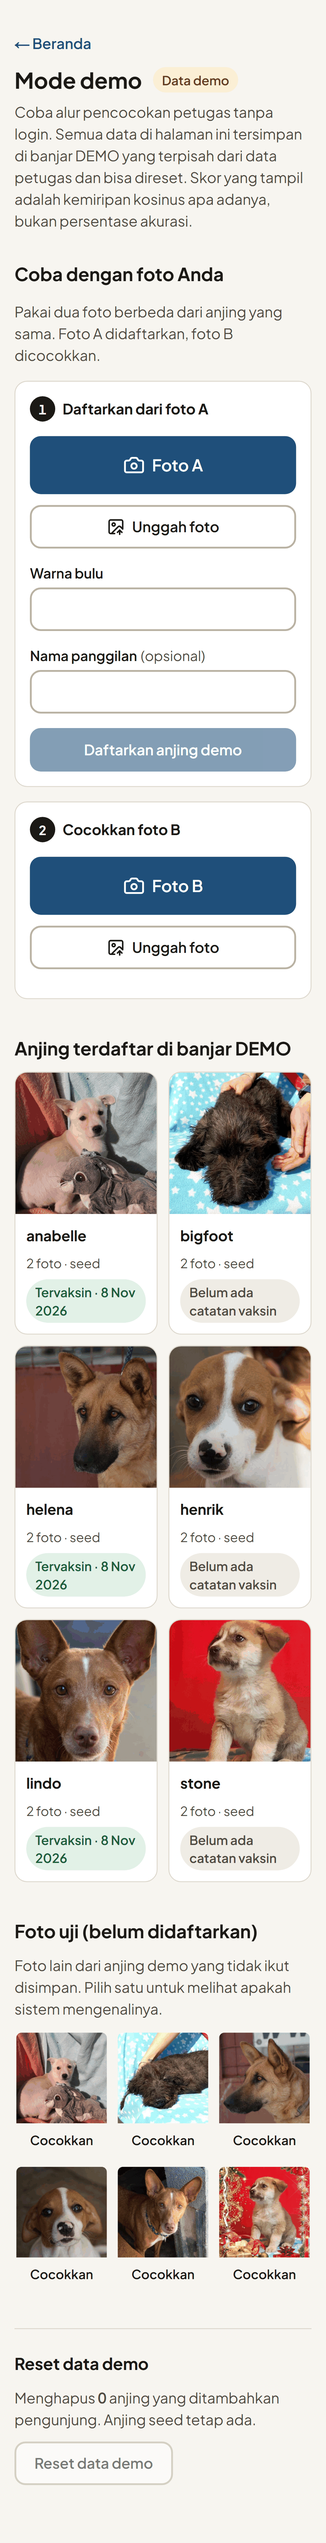
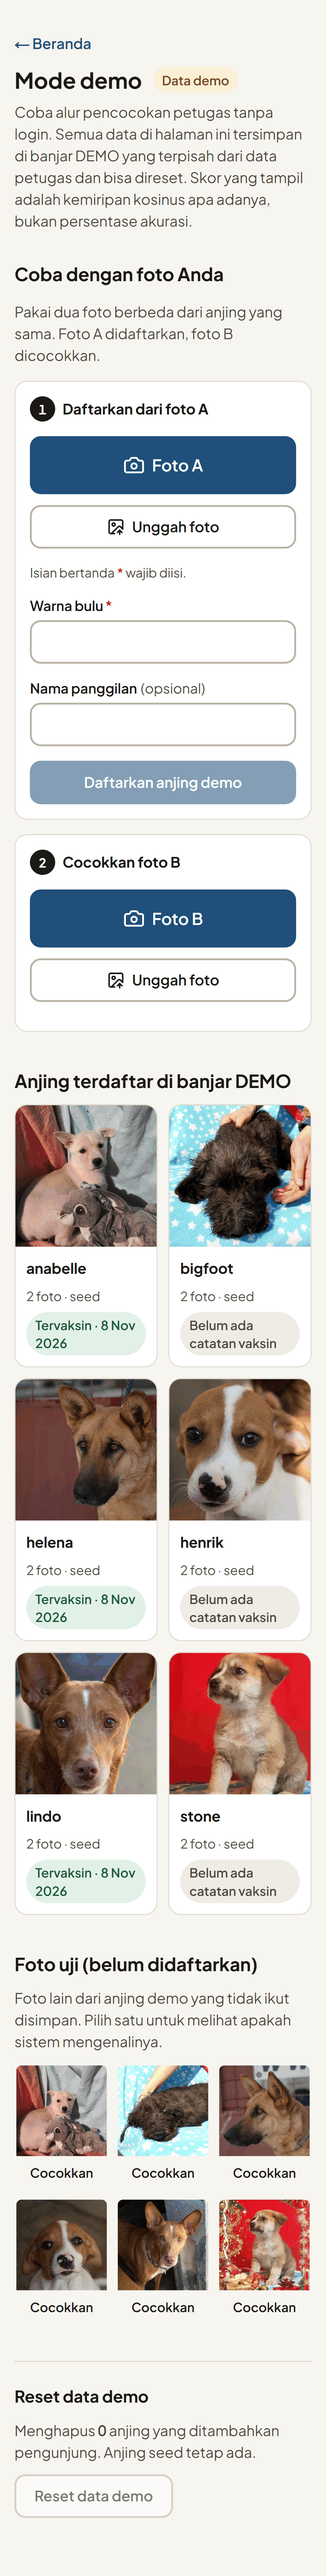
feat(forms): red asterisk on required fields
Label takes a `required` prop that adds an aria-hidden red asterisk; the
inputs carry the `required` attribute so screen readers still announce it.
Every form with required fields shows "Isian bertanda * wajib diisi.":
login, dog registration (officer and demo), admin thresholds and
facilities. The citizen bite report keeps no marks because every field
there is optional by design.

Changed region(s): [[0.0307, 0.0312, 0.9513, 0.9684], [0.5831, 0.9371, 0.6751, 0.9684], [0.7058, 0.9371, 0.7672, 0.9684]]

diff --git a/app/admin/admin-dashboard.tsx b/app/admin/admin-dashboard.tsx
@@ -3,7 +3,7 @@
 import Link from "next/link";
 import { useCallback, useEffect, useId, useState, type FormEvent } from "react";
 import { useOfficer } from "@/components/officer-context";
-import { Badge, Button, Card, EmptyState, ErrorState, FieldError, Label, ListSkeleton, Notice, inputClass } from "@/components/ui";
+import { Badge, Button, Card, EmptyState, ErrorState, FieldError, Label, ListSkeleton, Notice, RequiredNote, inputClass } from "@/components/ui";
 import { getBrowserClient } from "@/lib/supabase/browser";
 import { formatPercent, formatScore } from "@/lib/format";
 import type { Tables } from "@/lib/supabase/database.types";
@@ -271,15 +271,21 @@ function ThresholdForm() {
         <ListSkeleton rows={2} label="Memuat pengaturan" />
       ) : (
         <form onSubmit={save} noValidate className="space-y-4">
+          <RequiredNote />
           <div className="grid gap-4 sm:grid-cols-3">
             <div>
-              <Label htmlFor={ids.strong}>Ambang kuat</Label>
-              <input id={ids.strong} inputMode="decimal" value={values.strong} onChange={(e) => setValues({ ...values, strong: e.target.value })} className={inputClass} />
+              <Label htmlFor={ids.strong} required>
+                Ambang kuat
+              </Label>
+              <input id={ids.strong} required inputMode="decimal" value={values.strong} onChange={(e) => setValues({ ...values, strong: e.target.value })} className={inputClass} />
             </div>
             <div>
-              <Label htmlFor={ids.unsure}>Ambang ragu</Label>
+              <Label htmlFor={ids.unsure} required>
+                Ambang ragu
+              </Label>
               <input
                 id={ids.unsure}
+                required
                 inputMode="decimal"
                 value={values.unsure}
                 onChange={(e) => setValues({ ...values, unsure: e.target.value })}
@@ -290,8 +296,10 @@ function ThresholdForm() {
               <FieldError id={ids.unsureError} message={errors.matchUnsure} />
             </div>
             <div>
-              <Label htmlFor={ids.days}>Periode vaksin (hari)</Label>
-              <input id={ids.days} inputMode="numeric" value={values.days} onChange={(e) => setValues({ ...values, days: e.target.value })} className={inputClass} />
+              <Label htmlFor={ids.days} required>
+                Periode vaksin (hari)
+              </Label>
+              <input id={ids.days} required inputMode="numeric" value={values.days} onChange={(e) => setValues({ ...values, days: e.target.value })} className={inputClass} />
             </div>
           </div>
           <p className="text-sm text-ink-muted">

diff --git a/app/admin/facility-manager.tsx b/app/admin/facility-manager.tsx
@@ -1,7 +1,7 @@
 "use client";
 
 import { useCallback, useEffect, useId, useState, type FormEvent } from "react";
-import { Badge, Button, EmptyState, FieldError, Label, ListSkeleton, Notice, inputClass } from "@/components/ui";
+import { Badge, Button, EmptyState, FieldError, Label, ListSkeleton, Notice, RequiredNote, inputClass } from "@/components/ui";
 import { getBrowserClient } from "@/lib/supabase/browser";
 import type { Tables } from "@/lib/supabase/database.types";
 
@@ -136,14 +136,19 @@ function FacilityForm({
   return (
     <form onSubmit={submit} noValidate className="space-y-4 rounded-card border border-line bg-surface p-4">
       <h3 className="text-lg font-bold">{facility ? "Ubah faskes" : "Tambah faskes"}</h3>
+      <RequiredNote />
       <div>
-        <Label htmlFor={ids.name}>Nama</Label>
-        <input id={ids.name} name="name" defaultValue={facility?.name} className={inputClass} aria-invalid={Boolean(errors.name)} aria-describedby={errors.name ? ids.nameError : undefined} />
+        <Label htmlFor={ids.name} required>
+          Nama
+        </Label>
+        <input id={ids.name} name="name" required defaultValue={facility?.name} className={inputClass} aria-invalid={Boolean(errors.name)} aria-describedby={errors.name ? ids.nameError : undefined} />
         <FieldError id={ids.nameError} message={errors.name} />
       </div>
       <div>
-        <Label htmlFor={ids.type}>Jenis</Label>
-        <input id={ids.type} name="type" placeholder="Puskesmas, RSUD, Rabies Center" defaultValue={facility?.type} className={inputClass} aria-invalid={Boolean(errors.type)} aria-describedby={errors.type ? ids.typeError : undefined} />
+        <Label htmlFor={ids.type} required>
+          Jenis
+        </Label>
+        <input id={ids.type} name="type" required placeholder="Puskesmas, RSUD, Rabies Center" defaultValue={facility?.type} className={inputClass} aria-invalid={Boolean(errors.type)} aria-describedby={errors.type ? ids.typeError : undefined} />
         <FieldError id={ids.typeError} message={errors.type} />
       </div>
       <div>

diff --git a/components/dog-form.tsx b/components/dog-form.tsx
@@ -1,7 +1,7 @@
 "use client";
 
 import { useId, type FormEvent } from "react";
-import { Button, FieldError, Label, inputClass } from "@/components/ui";
+import { Button, FieldError, Label, RequiredMark, RequiredNote, inputClass } from "@/components/ui";
 import { DOG_OWNERSHIP, DOG_SEX, OWNERSHIP_LABEL, SEX_LABEL } from "@/lib/validation/dog";
 
 export type DogFormValues = Record<"nickname" | "color" | "sex" | "ownership" | "ownerName" | "ownerPhone", string>;
@@ -17,14 +17,17 @@ type Props = {
 function ChoiceGroup({ legend, name, options }: { legend: string; name: string; options: readonly [string, string][] }) {
   return (
     <fieldset>
-      <legend className="text-[0.95rem] font-semibold">{legend}</legend>
+      <legend className="text-[0.95rem] font-semibold">
+        {legend}
+        <RequiredMark />
+      </legend>
       <div className="mt-2 grid grid-cols-3 gap-2">
         {options.map(([value, label], index) => (
           <label
             key={value}
             className="flex min-h-12 cursor-pointer items-center justify-center rounded-xl border-2 border-line-strong bg-surface px-2 text-center text-[0.95rem] font-semibold has-[:checked]:border-accent has-[:checked]:bg-accent-soft has-[:checked]:text-accent"
           >
-            <input type="radio" name={name} value={value} defaultChecked={index === options.length - 1} className="sr-only" />
+            <input type="radio" name={name} value={value} required defaultChecked={index === options.length - 1} className="sr-only" />
             {label}
           </label>
         ))}
@@ -59,8 +62,11 @@ export function DogForm({ pending, errors, submitLabel, onSubmit, showOwner = tr
 
   return (
     <form onSubmit={submit} noValidate className="space-y-5">
+      <RequiredNote />
       <div>
-        <Label htmlFor={ids.color}>Warna bulu</Label>
+        <Label htmlFor={ids.color} required>
+          Warna bulu
+        </Label>
         <input
           id={ids.color}
           name="color"

diff --git a/app/demo/demo-lab.tsx b/app/demo/demo-lab.tsx
@@ -1,7 +1,7 @@
 "use client";
 
 import { useCallback, useEffect, useId, useState, type FormEvent } from "react";
-import { Badge, Button, Card, EmptyState, ErrorState, FieldError, Label, ListSkeleton, Notice, inputClass } from "@/components/ui";
+import { Badge, Button, Card, EmptyState, ErrorState, FieldError, Label, ListSkeleton, Notice, RequiredNote, inputClass } from "@/components/ui";
 import { CameraCapture } from "@/components/camera-capture";
 import { MatchResult } from "@/components/match-result";
 import { DogName, PhotoBox, VaccineBadge } from "@/components/dog-bits";
@@ -170,9 +170,12 @@ function TryItYourself({ onChange }: { onChange: () => void }) {
           <>
             {photoA ? <p className="font-semibold text-ok">Foto A siap.</p> : <CameraCapture onCapture={setPhotoA} captureLabel="Foto A" />}
             <form onSubmit={register} noValidate className="space-y-4">
+              <RequiredNote />
               <div>
-                <Label htmlFor={ids.color}>Warna bulu</Label>
-                <input id={ids.color} name="color" className={inputClass} aria-invalid={Boolean(errors.color)} aria-describedby={errors.color ? ids.colorError : undefined} />
+                <Label htmlFor={ids.color} required>
+                  Warna bulu
+                </Label>
+                <input id={ids.color} name="color" required className={inputClass} aria-invalid={Boolean(errors.color)} aria-describedby={errors.color ? ids.colorError : undefined} />
                 <FieldError id={ids.colorError} message={errors.color} />
               </div>
               <div>

diff --git a/app/masuk/login-form.tsx b/app/masuk/login-form.tsx
@@ -2,7 +2,7 @@
 
 import { useId, useState, type FormEvent } from "react";
 import { useRouter, useSearchParams } from "next/navigation";
-import { Button, FieldError, Label, Notice, inputClass } from "@/components/ui";
+import { Button, FieldError, Label, Notice, RequiredNote, inputClass } from "@/components/ui";
 import { hasAuthCookie } from "@/lib/auth-cookie";
 import { getBrowserClient } from "@/lib/supabase/browser";
 
@@ -62,11 +62,15 @@ export function LoginForm() {
 
   return (
     <form onSubmit={submit} noValidate className="mt-6 space-y-5">
+      <RequiredNote />
       <div>
-        <Label htmlFor={ids.email}>Email</Label>
+        <Label htmlFor={ids.email} required>
+          Email
+        </Label>
         <input
           id={ids.email}
           name="email"
+          required
           type="email"
           autoComplete="username"
           inputMode="email"
@@ -77,10 +81,13 @@ export function LoginForm() {
         <FieldError id={ids.emailError} message={errors.email} />
       </div>
       <div>
-        <Label htmlFor={ids.password}>Kata sandi</Label>
+        <Label htmlFor={ids.password} required>
+          Kata sandi
+        </Label>
         <input
           id={ids.password}
           name="password"
+          required
           type="password"
           autoComplete="current-password"
           className={inputClass}

diff --git a/components/ui.tsx b/components/ui.tsx
@@ -77,10 +77,38 @@ export function FieldError({ id, message }: { id: string; message?: string }) {
 export const inputClass =
   "mt-1 block min-h-12 w-full rounded-xl border-2 border-line-strong bg-surface px-3 text-base text-ink placeholder:text-ink-faint focus:border-accent focus:outline-none";
 
-export function Label({ htmlFor, children, hint }: { htmlFor: string; children: ReactNode; hint?: string }) {
+/** Visual marker only; screen readers learn "required" from the input's `required` attribute. */
+export function RequiredMark() {
+  return (
+    <span aria-hidden="true" className="ml-0.5 text-danger">
+      *
+    </span>
+  );
+}
+
+export function RequiredNote() {
+  return (
+    <p className="text-sm text-ink-muted">
+      Isian bertanda <span className="font-semibold text-danger">*</span> wajib diisi.
+    </p>
+  );
+}
+
+export function Label({
+  htmlFor,
+  children,
+  hint,
+  required = false,
+}: {
+  htmlFor: string;
+  children: ReactNode;
+  hint?: string;
+  required?: boolean;
+}) {
   return (
     <label htmlFor={htmlFor} className="block text-[0.95rem] font-semibold text-ink">
       {children}
+      {required ? <RequiredMark /> : null}
       {hint ? <span className="ml-1 font-normal text-ink-muted">{hint}</span> : null}
     </label>
   );
